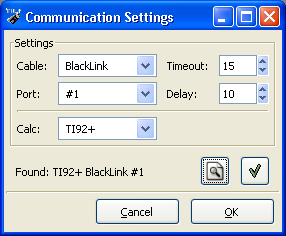
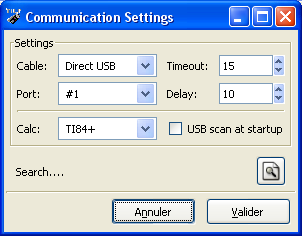
Updated html manual.
git-svn-id: http://svn.tilp.info/repos/tilp@2337

diff --git a/tilp/trunk/help/chapter03.html b/tilp/trunk/help/chapter03.html
@@ -69,6 +69,10 @@ transmission may become unstable (transmissions errors) if you try and
 go
 too fast. 10&micro;s is the optimal value. If you have a fast
 calculator (TI89/92/92+), you can decrease it.<br>
+6&deg;) USB scan at startup: attempt to automatically find hand-helds
+plugged on SilerLink or DirectLink at startup. If OS sending failed and
+you need to restart TiLP, <span style="font-weight: bold;">disable</span>
+this option.<br>
 <br>
 </font><span style="text-decoration: underline;">Real cables :</span><br>
 <table style="width: 100%; text-align: left;" border="1" cellpadding="2"
